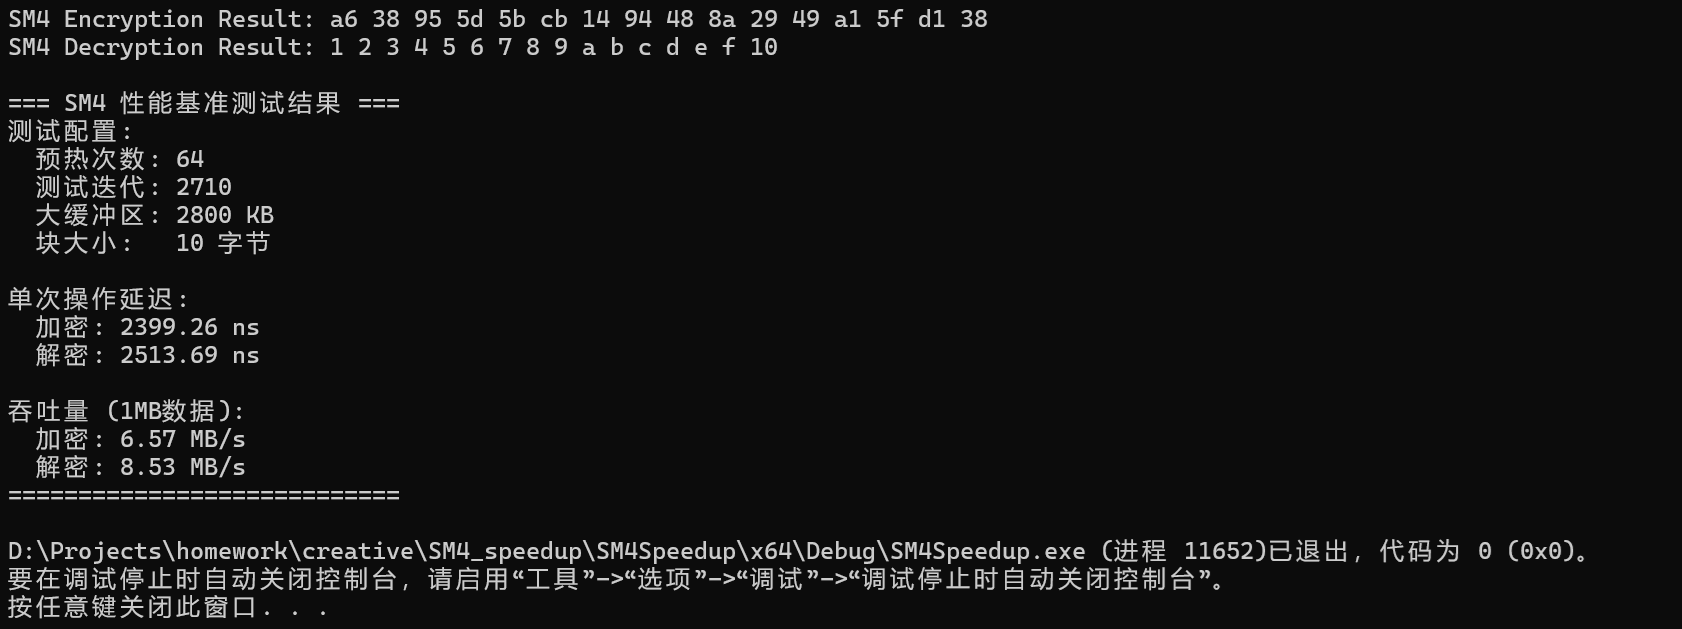
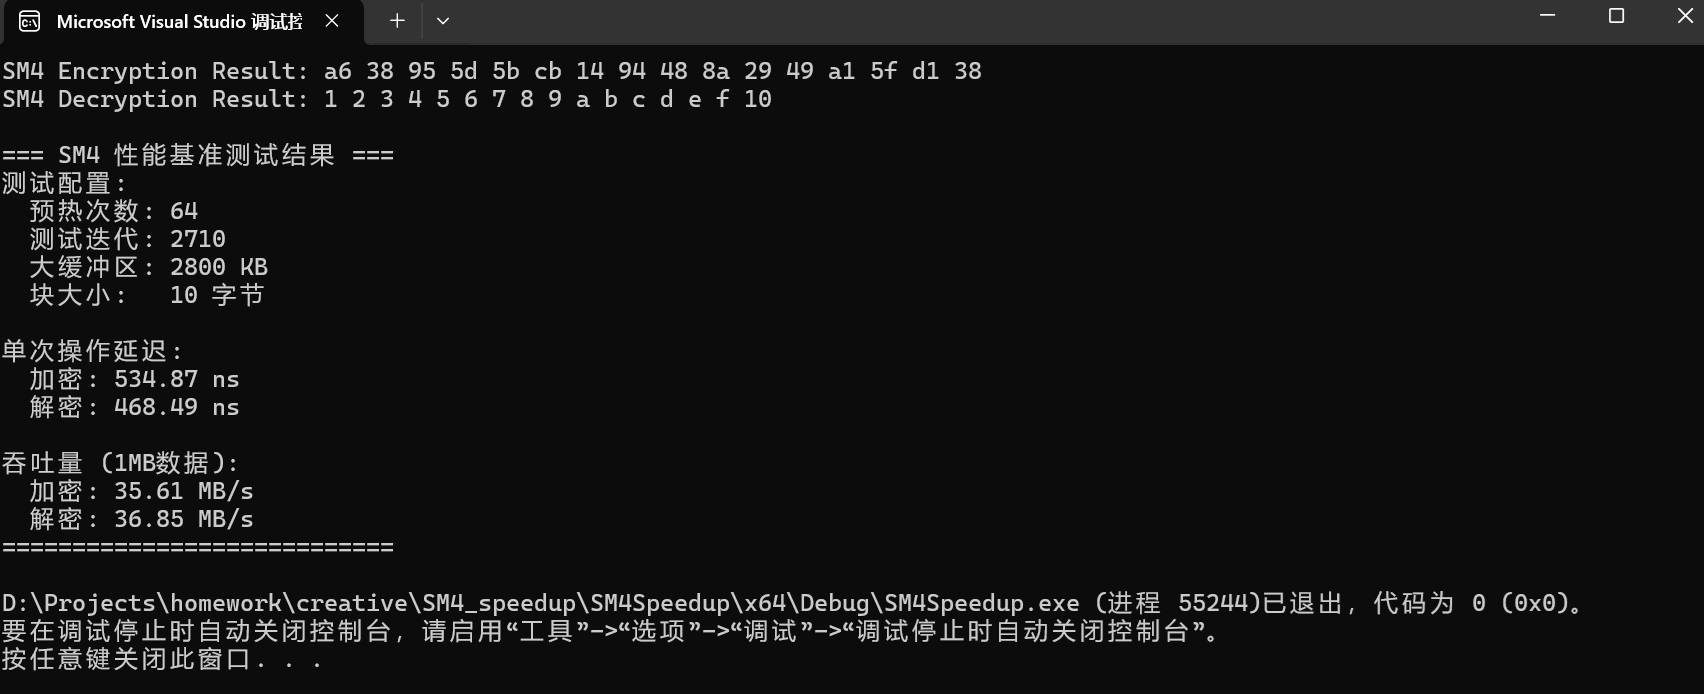
实现SIMD优化并进行性能测试

Changed region(s): [[0.0, 0.0, 1.0, 0.6041], [0.0, 0.8458, 0.9275, 0.9968], [0.0, 0.6343, 0.2473, 0.8156]]

diff --git a/Project1_SM4SpeedUP/TTable_SIMD_SM4.cpp b/Project1_SM4SpeedUP/TTable_SIMD_SM4.cpp
@@ -1,9 +1,10 @@
-#include <iostream>
+#include <iostream>
 #include<vector>
 #include<array>
 #include<cstddef>
 #include <cstdint>
 #include <emmintrin.h>
+#include <smmintrin.h>
 
 // 防止编译器优化掉关键操作
 volatile uint8_t prevent_optimization;
@@ -109,42 +110,6 @@ void SM4Encrypt_Ttable(const uint8_t* input, uint8_t* output, const uint32_t rk[
 }
 // End of T-Table
 
-uint8_t* T_func(uint8_t* x) {
-    static uint8_t result[4];
-
-    // S盒代换
-    uint8_t b[4];
-    for (int i = 0; i < 4; ++i) {
-        b[i] = Sbox[x[i]];
-    }
-
-    // 将4字节组合成32位字（大端序）
-    uint32_t word = (b[0] << 24) | (b[1] << 16) | (b[2] << 8) | b[3];
-
-    // 线性变换L: 循环左移并异或
-    uint32_t L = word
-        ^ ((word << 2) | (word >> 30))   // 循环左移2位
-        ^ ((word << 10) | (word >> 22))  // 循环左移10位
-        ^ ((word << 18) | (word >> 14))  // 循环左移18位
-        ^ ((word << 24) | (word >> 8));  // 循环左移24位
-
-    // 将32位结果拆分为4字节
-    result[0] = (L >> 24) & 0xFF;
-    result[1] = (L >> 16) & 0xFF;
-    result[2] = (L >> 8) & 0xFF;
-    result[3] = L & 0xFF;
-
-    return result;
-}
-
-uint8_t* SM4Round(uint8_t x1[4], uint8_t x2[4], uint8_t x3[4], uint8_t x4[4], uint8_t* rk) {
-	uint8_t result[4];
-	uint8_t temp[4];
-	xor4Bytes(temp, x2, x3, x4, rk);
-	xor2Bytes(result, x1, T_func(temp));
-	return result;
-}
-
 uint32_t T_Kgen(uint32_t K) {
 	static uint8_t A[4];
     static uint8_t B[4];
@@ -184,41 +149,45 @@ void RoundKeyGen(uint32_t rk[32], uint8_t key[16]) {
 	}
 }
 
-void SM4Encrypt(uint8_t* input, uint8_t* output, uint32_t rk[32]) {
-    uint8_t x[36][4];
-    // 修正：正确分组装载输入
-    for (int i = 0; i < 4; ++i) {
-        for (int j = 0; j < 4; ++j) {
-            x[i][j] = input[4 * i + j];
+// SIMD 优化：一次处理4个块
+void SM4Encrypt_Ttable_SIMD4(const uint8_t* input, uint8_t* output, const uint32_t rk[32], int blocks) {
+    // blocks 必须为4的倍数
+    for (int b = 0; b < blocks; b += 4) {
+        __m128i x[4][36];
+        // 加载4个块
+        for (int k = 0; k < 4; ++k) {
+            const uint8_t* in = input + (b + k) * 16;
+            uint32_t x0 = (in[0] << 24) | (in[1] << 16) | (in[2] << 8) | in[3];
+            uint32_t x1 = (in[4] << 24) | (in[5] << 16) | (in[6] << 8) | in[7];
+            uint32_t x2 = (in[8] << 24) | (in[9] << 16) | (in[10] << 8) | in[11];
+            uint32_t x3 = (in[12] << 24) | (in[13] << 16) | (in[14] << 8) | in[15];
+            x[k][0] = _mm_set_epi32(x0, x1, x2, x3);
+        }
+        // 32 轮
+        for (int i = 0; i < 32; ++i) {
+            for (int k = 0; k < 4; ++k) {
+                uint32_t x0 = _mm_extract_epi32(x[k][i], 3);
+                uint32_t x1 = _mm_extract_epi32(x[k][i], 2);
+                uint32_t x2 = _mm_extract_epi32(x[k][i], 1);
+                uint32_t x3 = _mm_extract_epi32(x[k][i], 0);
+                uint32_t t = SM4Round_Ttable(x0, x1, x2, x3, rk[i]);
+                x[k][i + 1] = _mm_set_epi32(x1, x2, x3, t);
+            }
+        }
+        // 输出
+        for (int k = 0; k < 4; ++k) {
+            uint32_t t0 = _mm_extract_epi32(x[k][32], 3);
+            uint32_t t1 = _mm_extract_epi32(x[k][32], 2);
+            uint32_t t2 = _mm_extract_epi32(x[k][32], 1);
+            uint32_t t3 = _mm_extract_epi32(x[k][32], 0);
+            uint8_t* out = output + (b + k) * 16;
+            out[0] = (t3 >> 24) & 0xFF; out[1] = (t3 >> 16) & 0xFF; out[2] = (t3 >> 8) & 0xFF; out[3] = t3 & 0xFF;
+            out[4] = (t2 >> 24) & 0xFF; out[5] = (t2 >> 16) & 0xFF; out[6] = (t2 >> 8) & 0xFF; out[7] = t2 & 0xFF;
+            out[8] = (t1 >> 24) & 0xFF; out[9] = (t1 >> 16) & 0xFF; out[10] = (t1 >> 8) & 0xFF; out[11] = t1 & 0xFF;
+            out[12] = (t0 >> 24) & 0xFF; out[13] = (t0 >> 16) & 0xFF; out[14] = (t0 >> 8) & 0xFF; out[15] = t0 & 0xFF;
         }
     }
-    for (int i = 0; i < 32; ++i) {
-        uint8_t* temp = SM4Round(x[i], x[i + 1], x[i + 2], x[i + 3], (uint8_t*)&rk[i]);
-        x[i + 4][0] = temp[0];
-        x[i + 4][1] = temp[1];
-        x[i + 4][2] = temp[2];
-        x[i + 4][3] = temp[3];
-    }
-    // reverse
-    output[0] = x[35][0];
-    output[1] = x[35][1];
-    output[2] = x[35][2];
-    output[3] = x[35][3];
-    output[4] = x[34][0];
-    output[5] = x[34][1];
-    output[6] = x[34][2];
-    output[7] = x[34][3];
-    output[8] = x[33][0];
-    output[9] = x[33][1];
-    output[10] = x[33][2];
-    output[11] = x[33][3];
-    output[12] = x[32][0];
-    output[13] = x[32][1];
-    output[14] = x[32][2];
-    output[15] = x[32][3];
-    // End of the Encryption
 }
-
 
 // Benchmark Phase
 #include <chrono>
@@ -295,20 +264,21 @@ void benchmark_SM4() {
     const int blocks = LARGE_BUFFER_SIZE / BLOCK_SIZE;
 
     start = std::chrono::high_resolution_clock::now();
-    for (int i = 0; i < blocks; ++i) {
-        SM4Encrypt_Ttable(large_plain + i * BLOCK_SIZE,
-            large_cipher + i * BLOCK_SIZE, rk);
+    // SIMD 优化：每次处理4个块
+    for (int i = 0; i < blocks; i += 4) {
+        SM4Encrypt_Ttable_SIMD4(large_plain + i * BLOCK_SIZE,
+            large_cipher + i * BLOCK_SIZE, rk, 4);
     }
     end = std::chrono::high_resolution_clock::now();
 
     duration = std::chrono::duration_cast<std::chrono::microseconds>(end - start).count();
     double encrypt_throughput = (LARGE_BUFFER_SIZE / (1024.0 * 1024.0)) / (duration / 1000000.0);
 
-    // 测试吞吐量 (1MB数据解密)
+        // 测试吞吐量 (1MB数据解密)
     start = std::chrono::high_resolution_clock::now();
-    for (int i = 0; i < blocks; ++i) {
-        SM4Encrypt_Ttable(large_cipher + i * BLOCK_SIZE,
-            large_decrypted + i * BLOCK_SIZE, decrypt_rk);
+    for (int i = 0; i < blocks; i += 4) {
+        SM4Encrypt_Ttable_SIMD4(large_cipher + i * BLOCK_SIZE,
+            large_decrypted + i * BLOCK_SIZE, decrypt_rk, 4);
     }
     end = std::chrono::high_resolution_clock::now();
 
